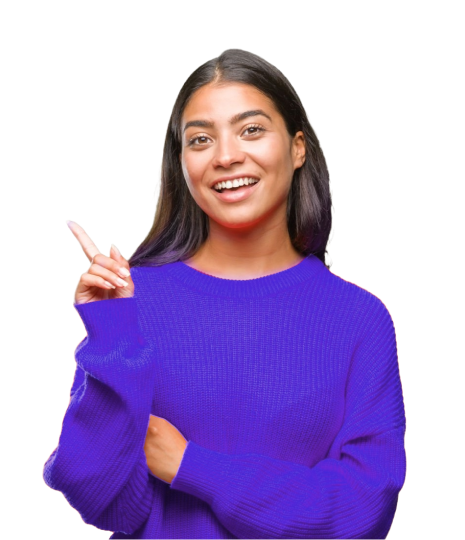
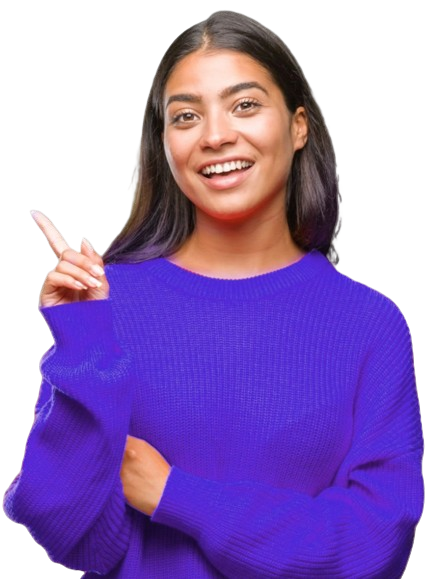
Update footer CTA alignment

diff --git a/src/components/homepage/FooterCTA.jsx b/src/components/homepage/FooterCTA.jsx
@@ -31,14 +31,14 @@ const FooterCTA = ({ data }) => {
         <Grid container sx={{ display: 'flex', justifyContent: 'center' }}>
           <Grid
             item
-            xs={7}
+            xs={8.5}
             sx={{ display: 'flex', alignItems: 'center', py: '1%' }}
           >
             <Box>
               <Typography
                 sx={{
                   color: '#ECECED',
-                  fontSize: { lg: '34px', md: '30px', sm: '20px' },
+                  fontSize: { lg: '54px', md: '50px', sm: '20px' },
                   fontWeight: 700,
                   my: 1,
                 }}
@@ -83,20 +83,20 @@ const FooterCTA = ({ data }) => {
           </Grid>
           <Grid
             item
-            xs={4}
-            sx={{ textAlign: isSmallScreen ? 'center' : 'end' }}
+            xs={3.5}
+            sx={{ textAlign: isSmallScreen ? 'center' : 'start' }}
           >
             <Box
               sx={{
                 display: 'flex',
                 alignItems: 'center',
-                justifyContent: { xs: 'center', lg: 'start' },
+                justifyContent: 'start',
               }}
             >
-              <Image
+              <img
                 src={data?.image}
-                width={isSmallScreen ? 300 : 360}
-                height={isSmallScreen ? 290 : 350}
+                // width={isSmallScreen ? 300 : 360}
+                // height={isSmallScreen ? 290 : 350}
                 alt="images"
                 style={{
                   marginTop: isSmallScreen ? 0 : '-61px',

diff --git a/src/components/FAQ/Faq.jsx b/src/components/FAQ/Faq.jsx
@@ -35,7 +35,7 @@ const Faq = ({ data }) => {
                 item
                 md={6}
                 sm={12}
-                sx={{ display: 'flex', height: '160px', px: '30px' }}
+                sx={{ display: 'flex',  px: '30px' }}
                 key={index}
               >
                 <Accordion
